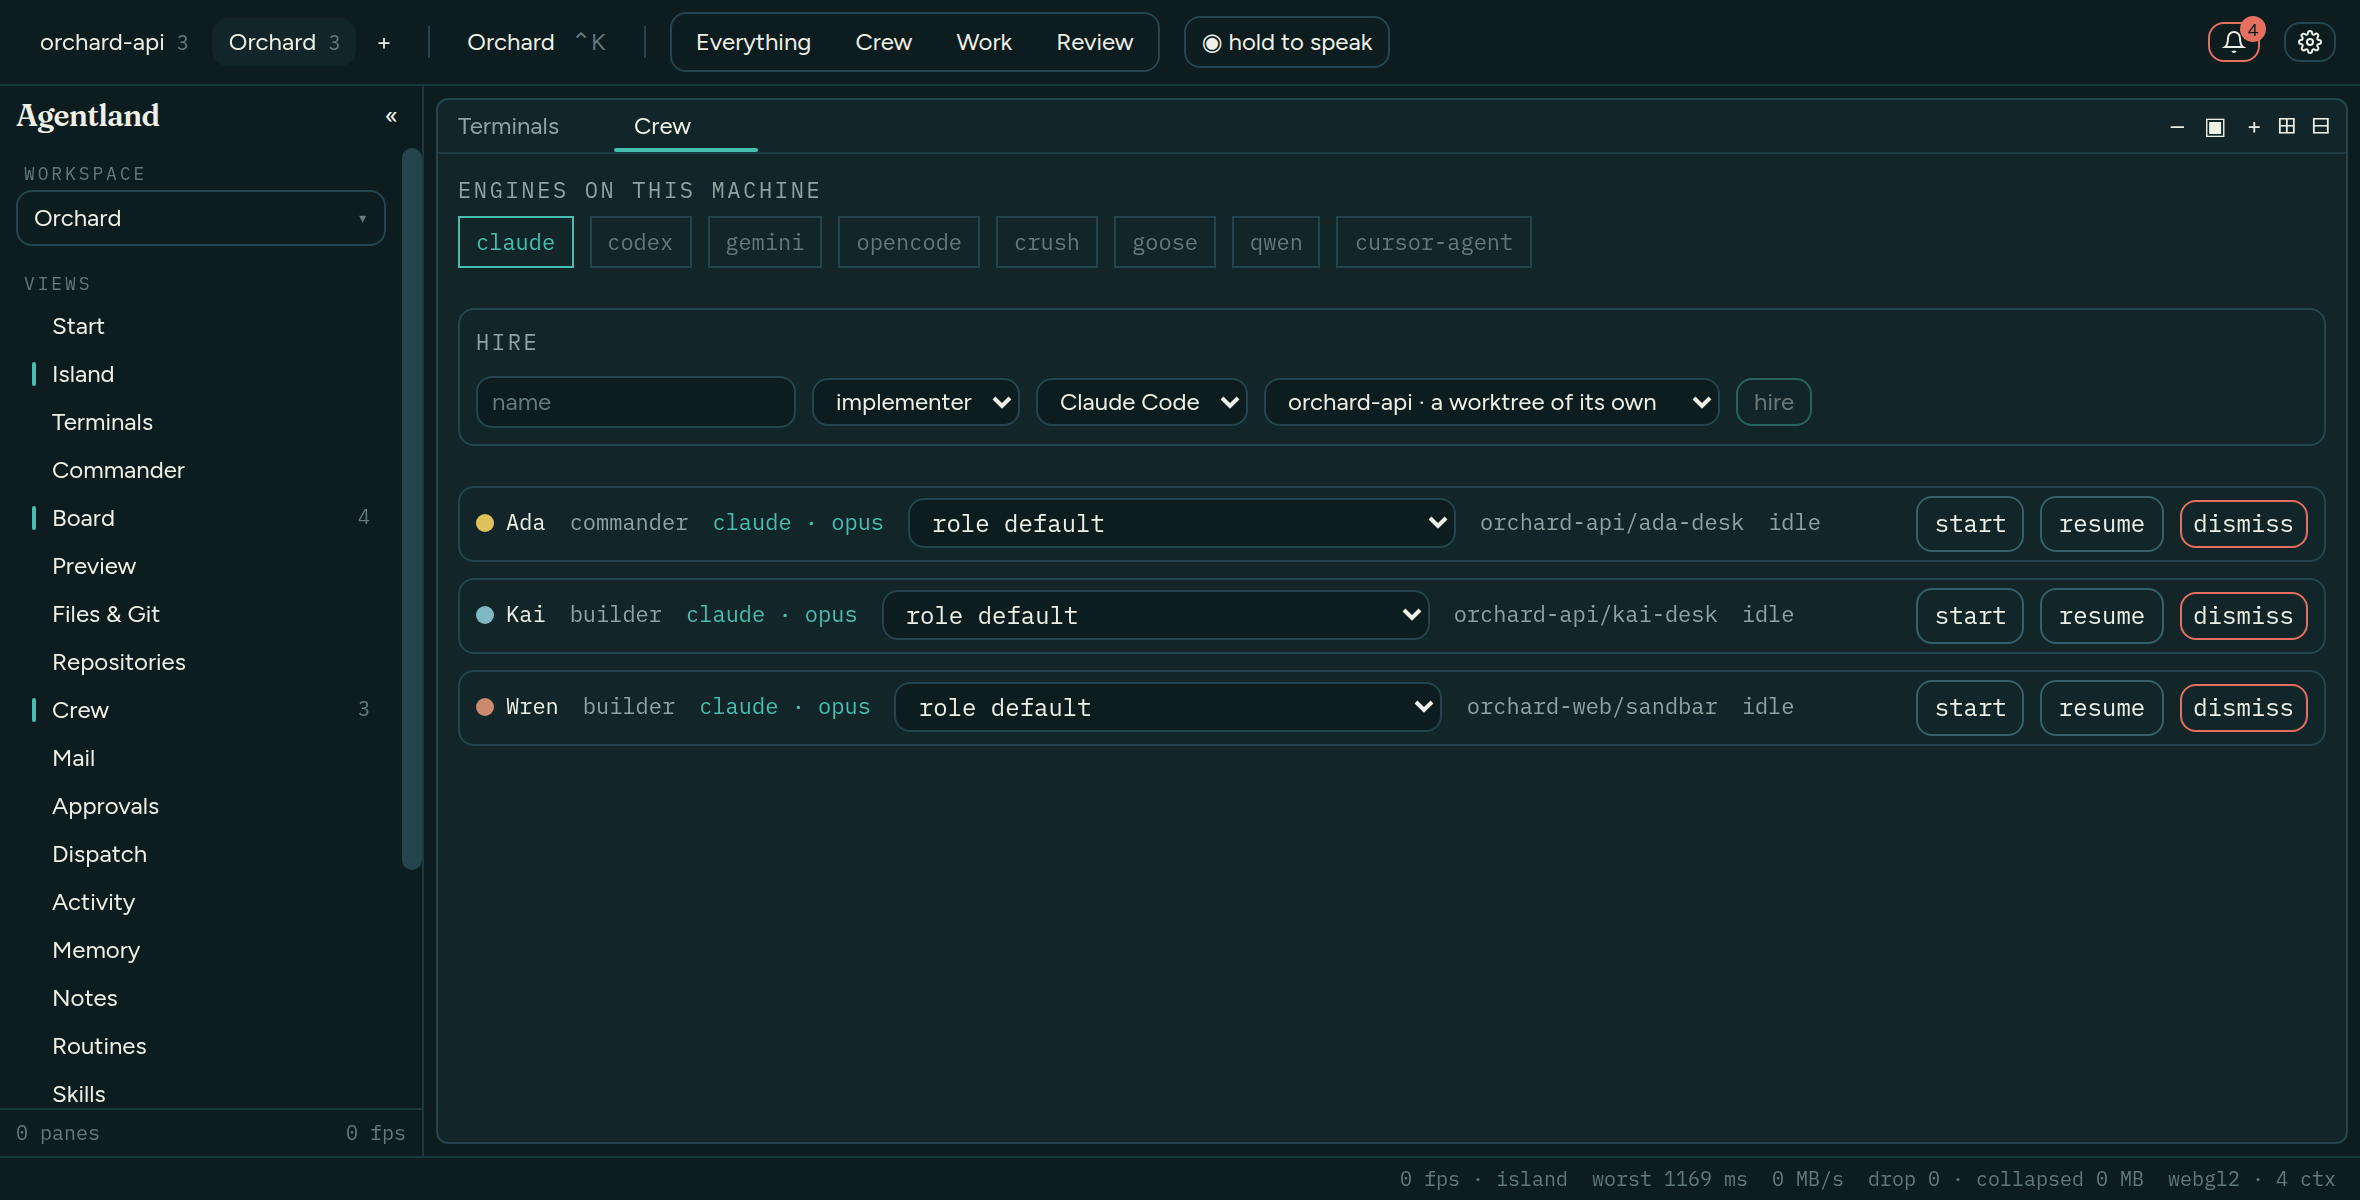
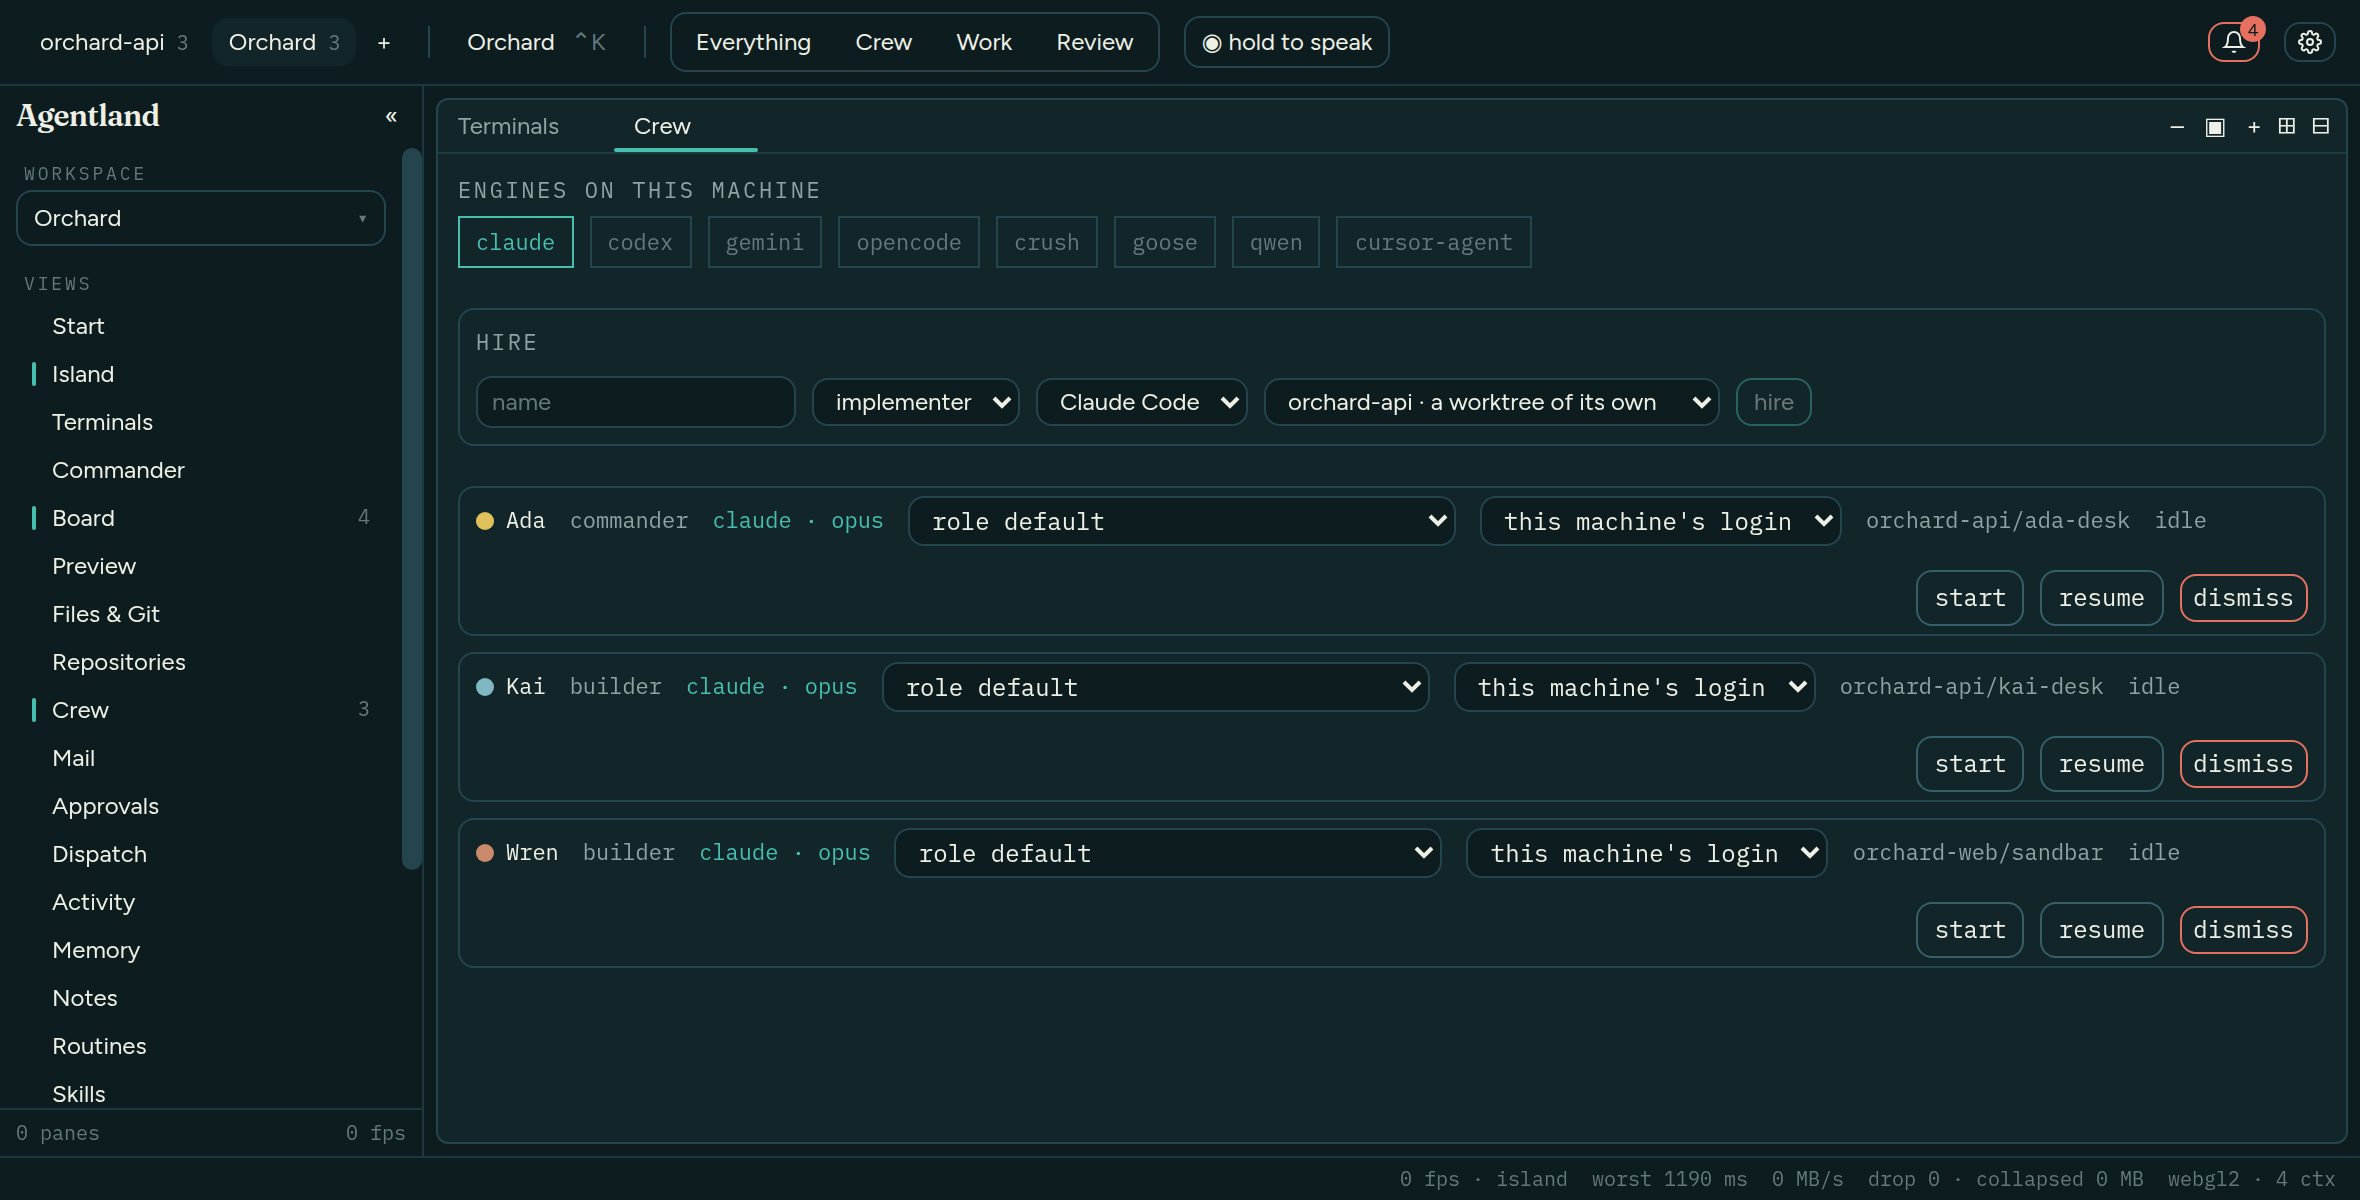
docs(readme): photograph the logins a machine holds
The shots script grows a sixth picture: the Logins panel, seeded with two
folders on the one engine this machine can hold more than one login for.
Neither is signed in, because signing one in would mean copying a real
person's credential into a temporary directory to make a picture look
better — which is the opposite of what the panel is for. What it shows
instead is the rule: a row says signed in only when the engine says so.

Settings is a page over the window rather than a panel in it, so it is
opened the way a person opens it — the gear, then the section. The gear
is an icon with no words, so the script learns to press a control by the
label it carries for a screen reader.

The other five are re-taken with it, and the crew rows now carry the
account picker.

Claude-Session: https://claude.ai/code/session_01VwtdckBDBn2P5R6i9ARjhn

diff --git a/README.md b/README.md
@@ -36,7 +36,13 @@ proposals nobody answered, corrections that left both sides in force.
 
 ![The notes panel with the vault check open, naming two notes nothing points at](docs/checking-the-vault.png)
 
-These five are made by `node scripts/shots.mjs`, which stands up a core of its
+A login is a folder an engine signs into. The panel lists what this machine
+actually holds and what each engine says about it — signed in only where the
+engine's own status command says so, never because a login pane was once opened.
+
+![The logins panel: two Claude logins, neither signed in, and the hand-over switch](docs/the-logins-they-hold.png)
+
+These six are made by `node scripts/shots.mjs`, which stands up a core of its
 own on its own port, seeds a crew that exists nowhere else, photographs the built
 interface in a headless browser and takes it all down again. Nobody's real
 repositories, cards or notes are in them, and re-running it after an interface
